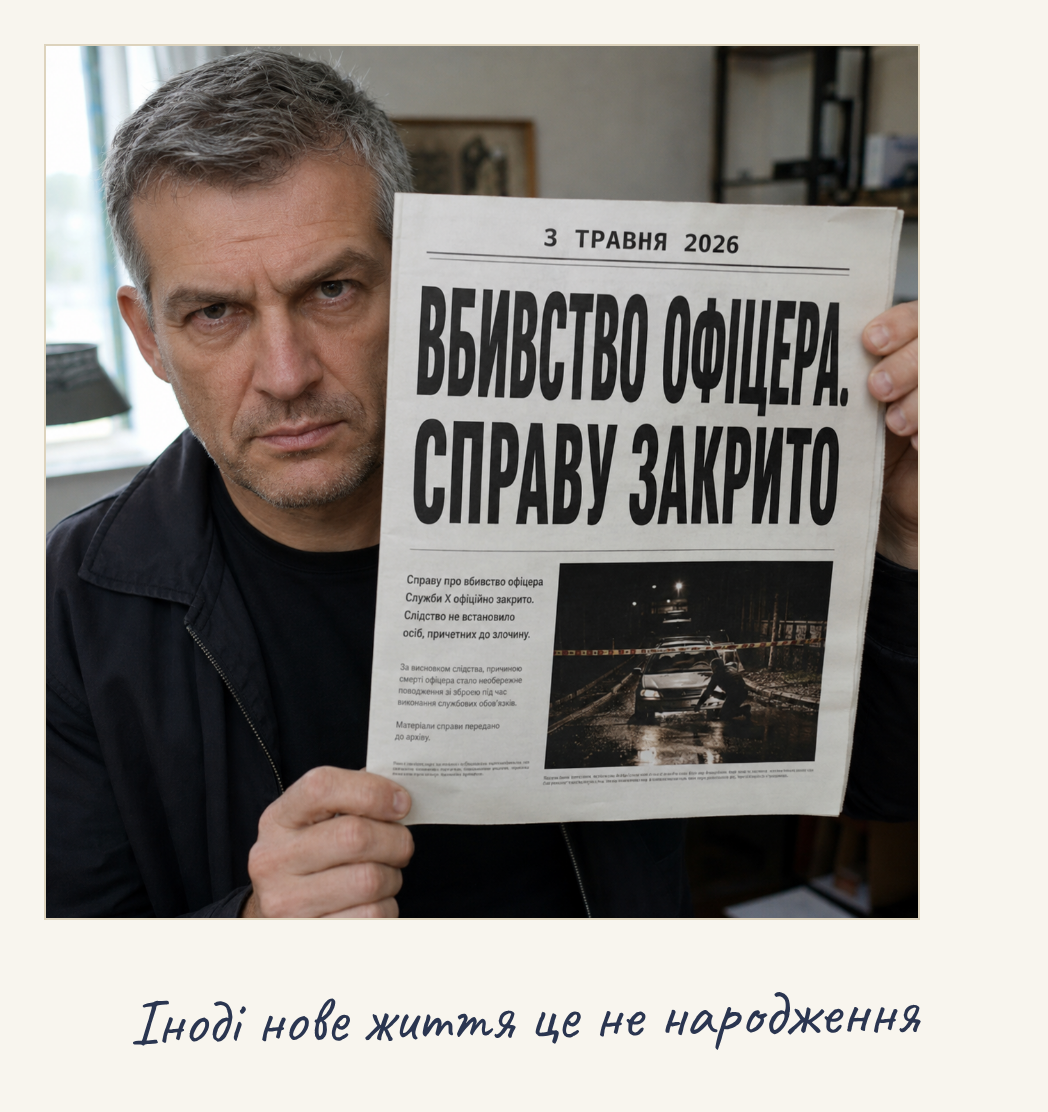
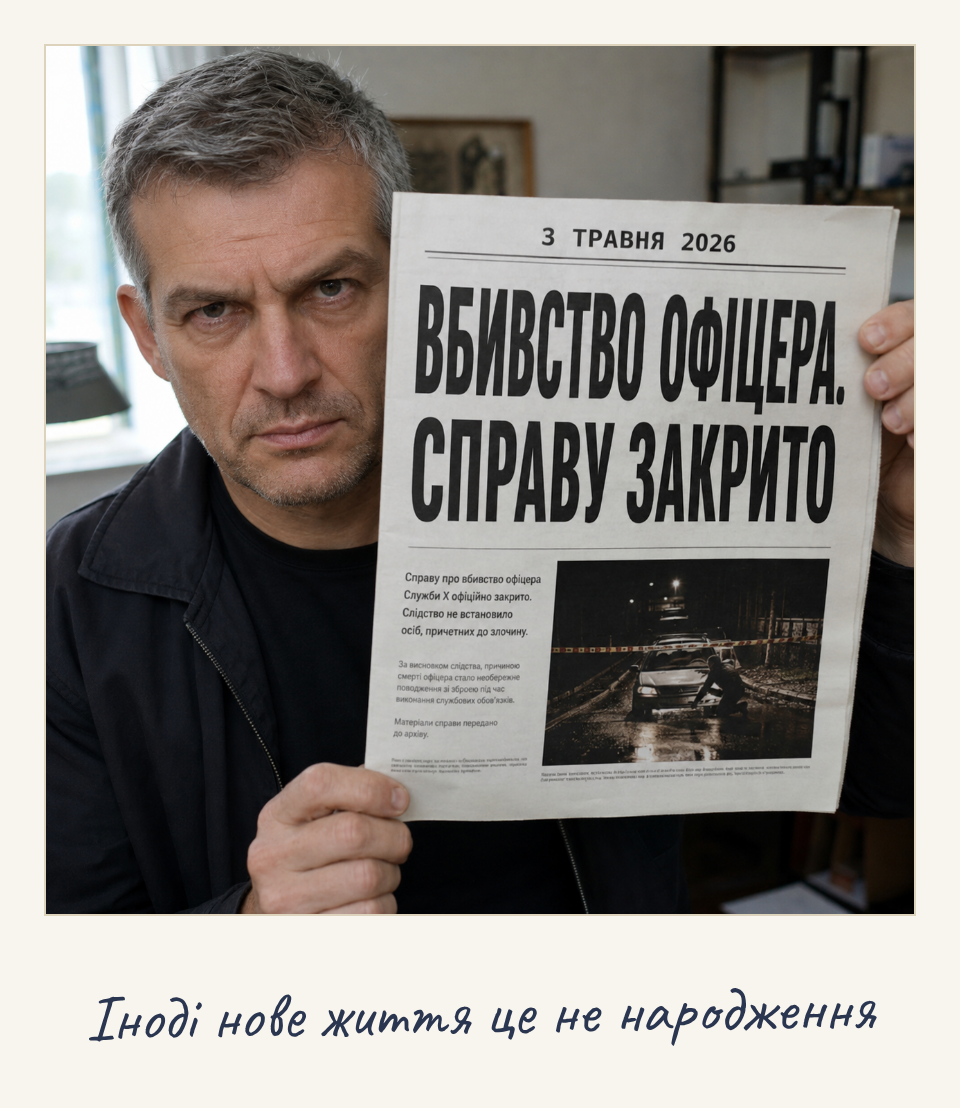
Рамка фото: симетричні відступи (border-box); посвідчення з новим портретом на білому тлі
Claude-Session: https://claude.ai/code/session_01Egbb1QZA23nT1FLr9Hjpcj

diff --git a/props/id-card-source.html b/props/id-card-source.html
@@ -41,7 +41,7 @@
     <filter id="idPhoto"><feColorMatrix type="saturate" values="0.72"/></filter>
   </defs>
   <rect x="48" y="140" width="220" height="280" rx="6" fill="#3c4233"/>
-  <image href="photoId.png" x="-92" y="135" width="500" height="500"
+  <image href="photoId.png" x="-77" y="135" width="500" height="500"
          clip-path="url(#phClip)" filter="url(#idPhoto)" preserveAspectRatio="xMidYMid meet"/>
   <rect x="48" y="140" width="220" height="280" rx="6" fill="none" stroke="#8a6d1f" stroke-width="2"/>
   <!-- поля -->
